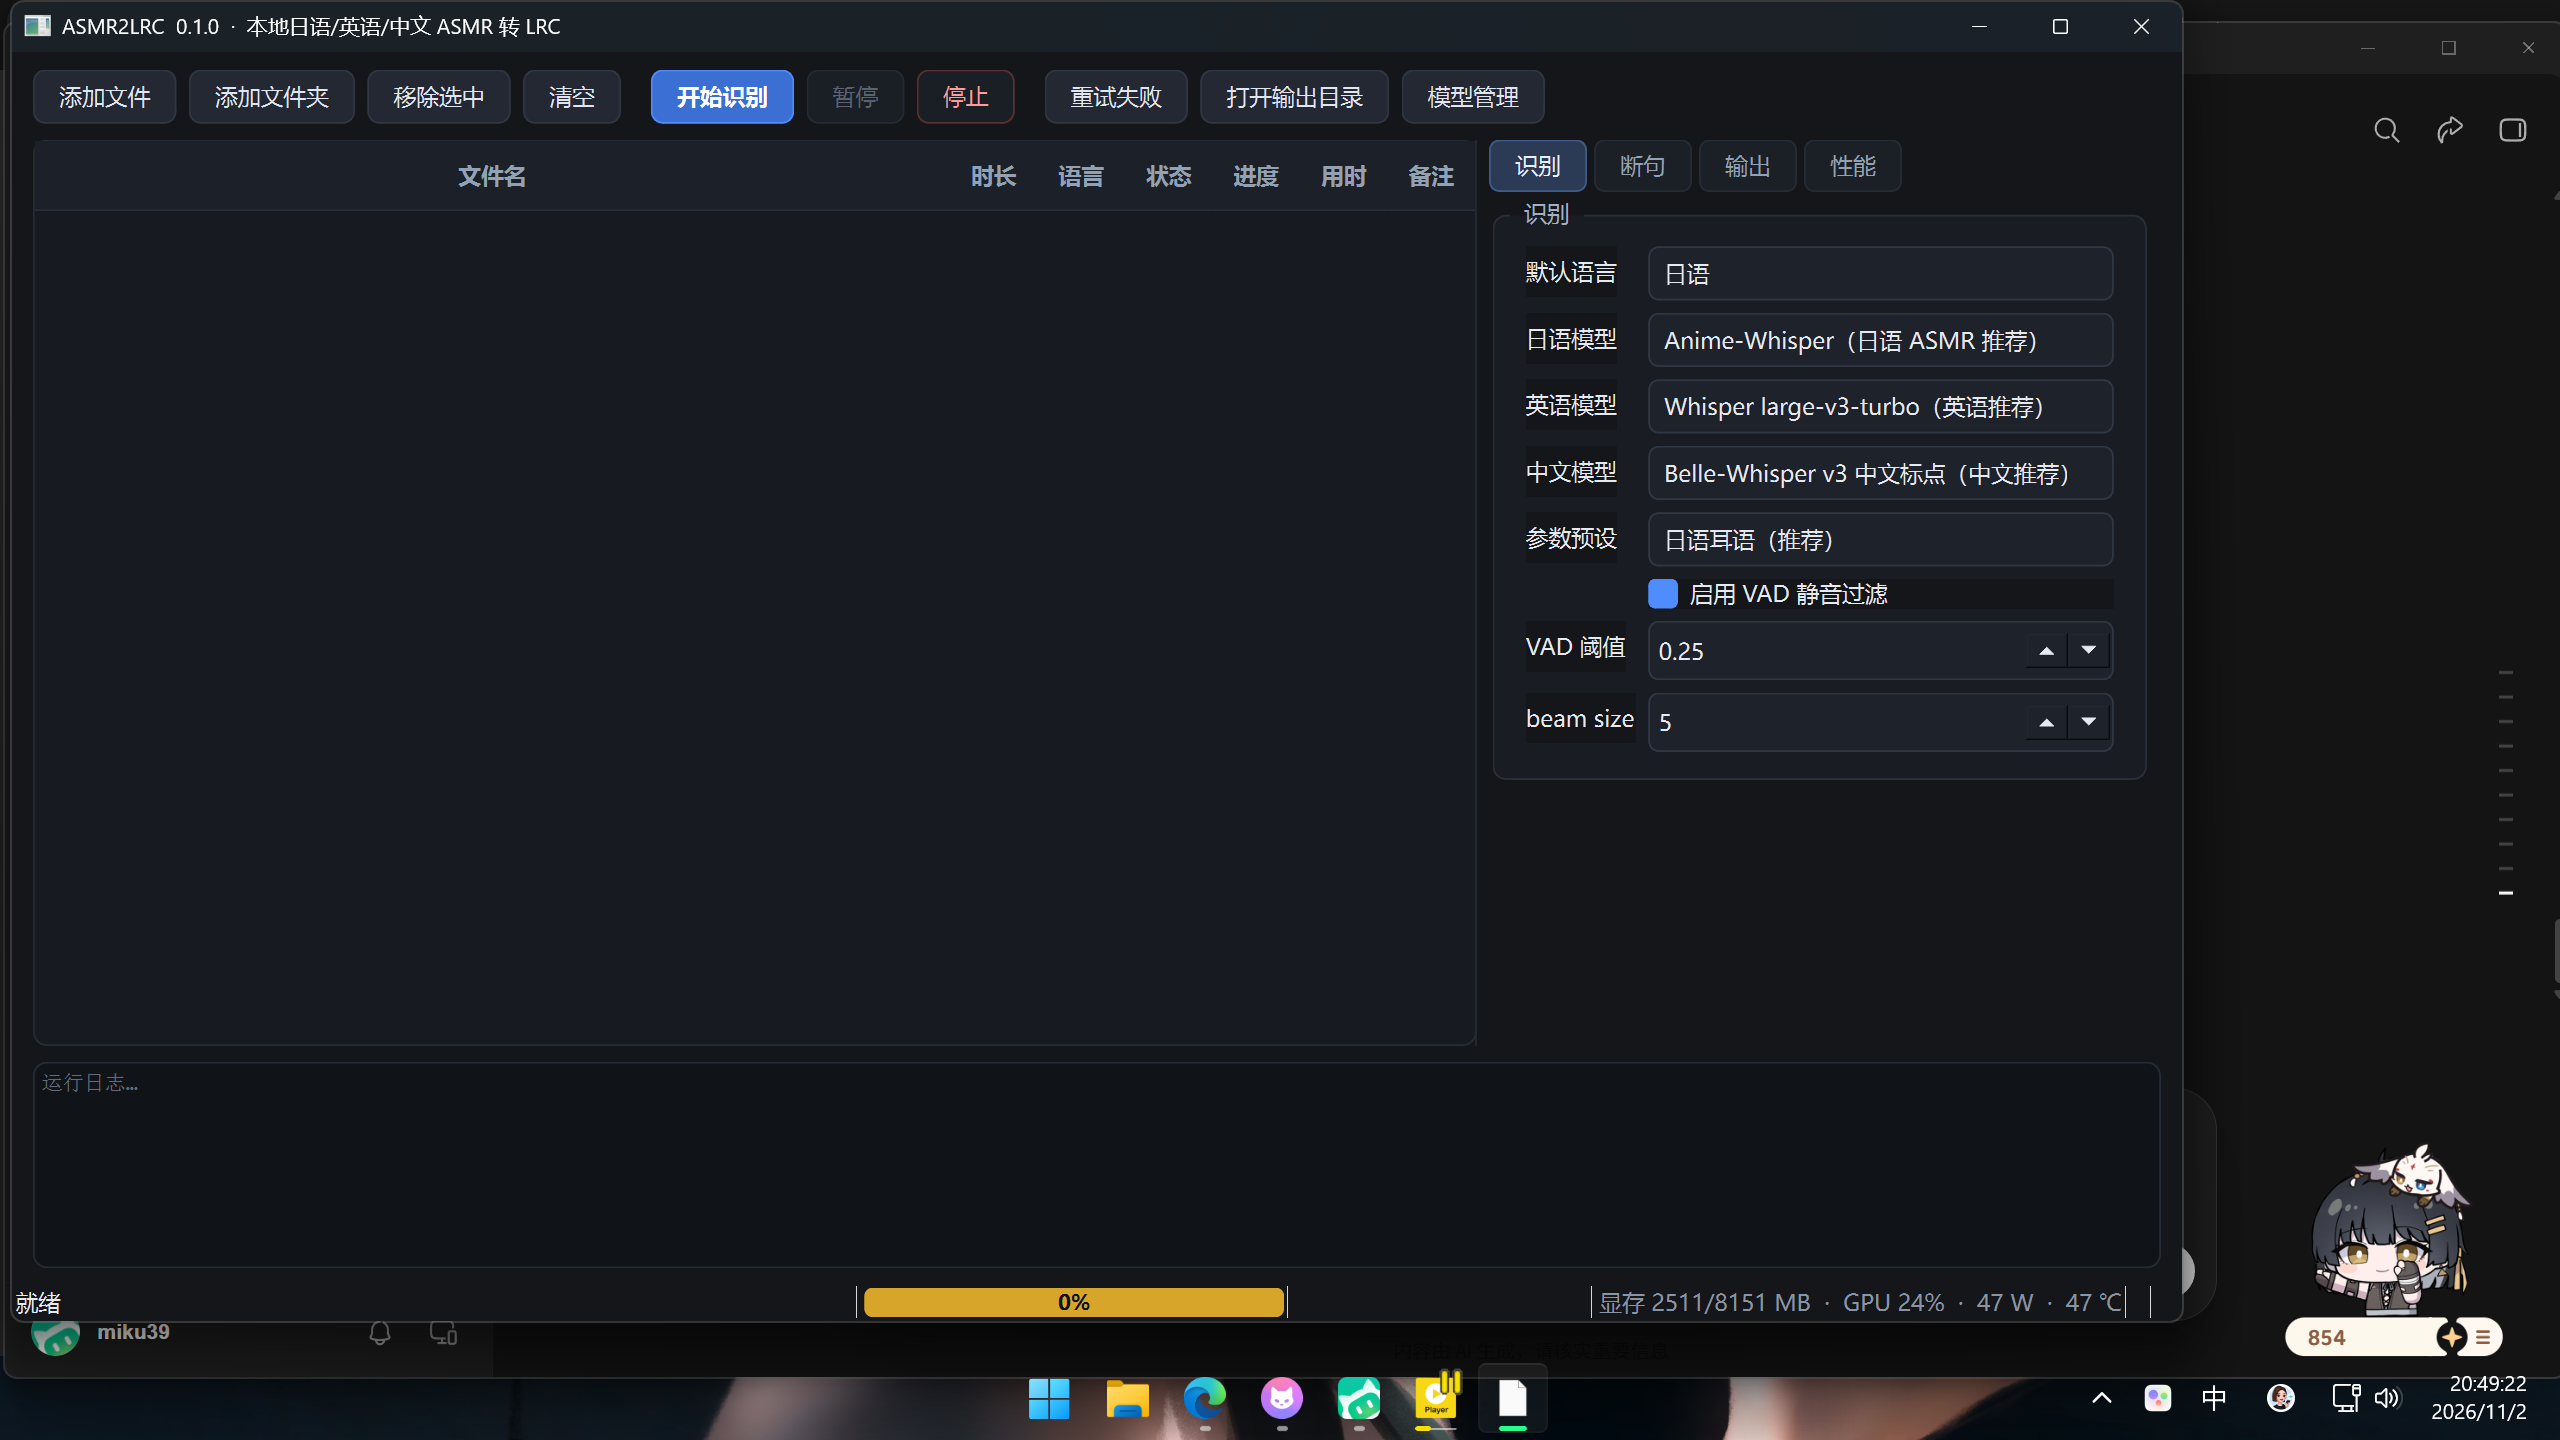
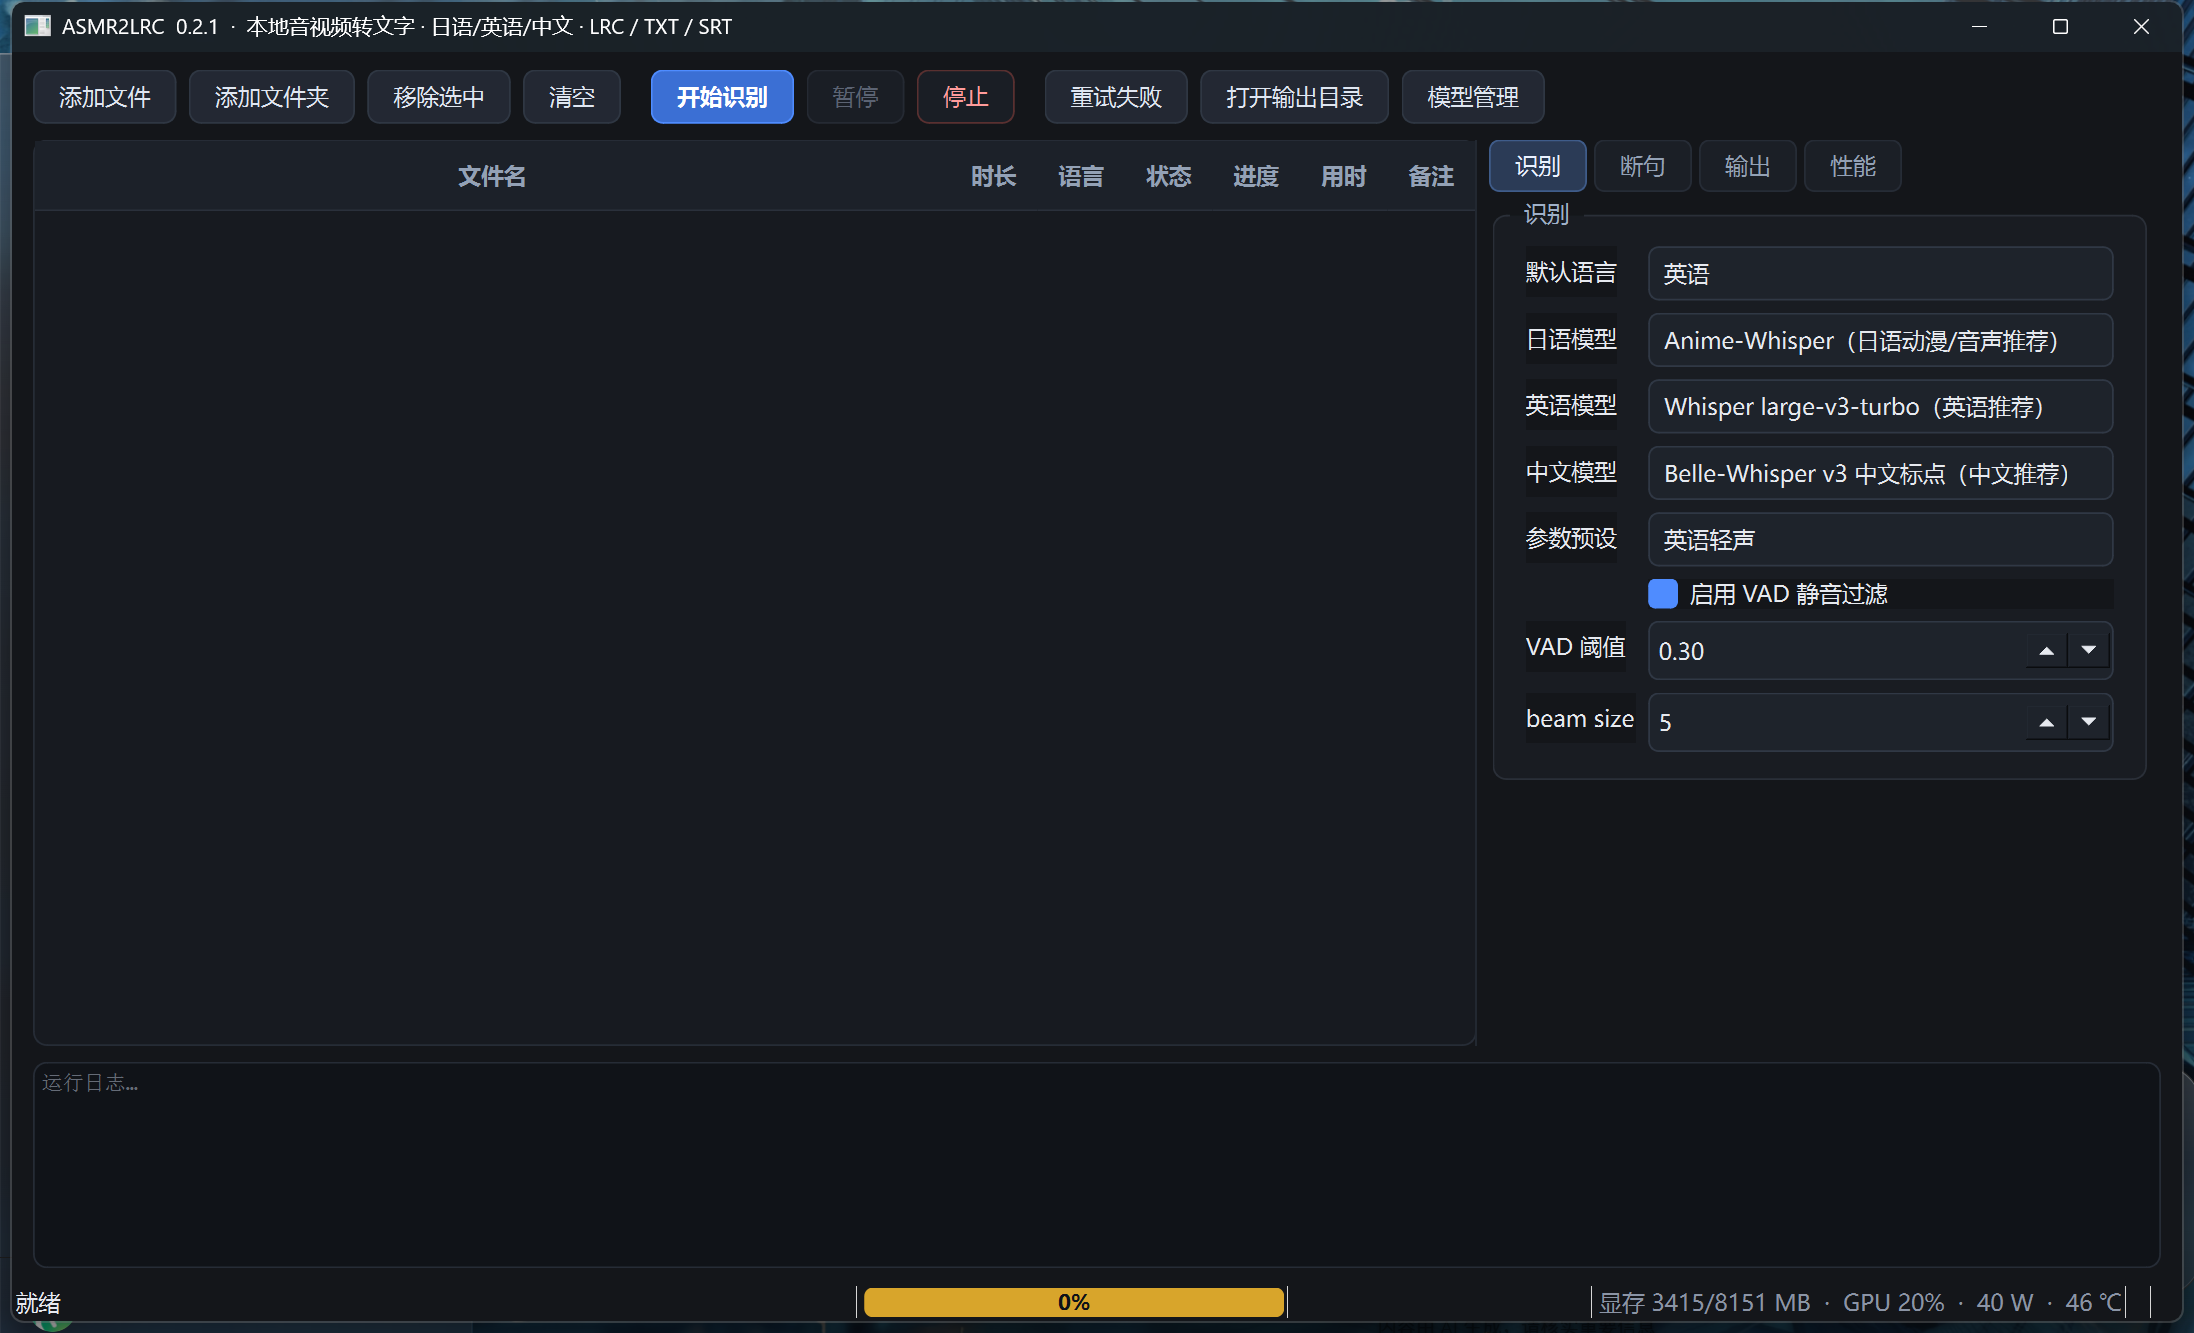
0.2.1：窗口标题泛化为「本地音视频转文字」，日语模型说明去掉 ASMR 限定
- 标题栏：ASMR2LRC 0.2.1 · 本地音视频转文字 · 日语/英语/中文 · LRC / TXT / SRT
- 日语模型显示名改为 Anime-Whisper（日语动漫/音声推荐）
- 更新界面截图 ui_preview.png

diff --git a/app/ui/main_window.py b/app/ui/main_window.py
@@ -49,7 +49,9 @@ class MainWindow(QMainWindow):
         self._current_dir: Path | None = None
         self._loading = True
         self._applying_preset = False
-        self.setWindowTitle(f"ASMR2LRC  {__version__}  ·  本地日语/英语/中文 ASMR 转 LRC")
+        self.setWindowTitle(
+            f"ASMR2LRC  {__version__}  ·  本地音视频转文字 · 日语/英语/中文 · LRC / TXT / SRT"
+        )
         self.resize(1240, 900)
         self._fit_to_screen()
         self.setAcceptDrops(True)

diff --git a/app/core/models.py b/app/core/models.py
@@ -31,7 +31,7 @@ MODEL_SPECS: dict[str, ModelSpec] = {
     "anime-whisper-ct2-fp16": ModelSpec(
         key="anime-whisper-ct2-fp16",
         repo="quantumcookie/anime-whisper-ct2-fp16",
-        label="Anime-Whisper（日语 ASMR 推荐）",
+        label="Anime-Whisper（日语动漫/音声推荐）",
         lang="ja",
         size_gb=1.5,
         note="动漫/游戏语音微调，断句自然、带标点；VAD 分段补偿时间轴",

diff --git a/app/__init__.py b/app/__init__.py
@@ -1,3 +1,3 @@
 """ASMR2LRC - 本地批量语音转 LRC/TXT 工具."""
 
-__version__ = "0.2.0"
+__version__ = "0.2.1"
